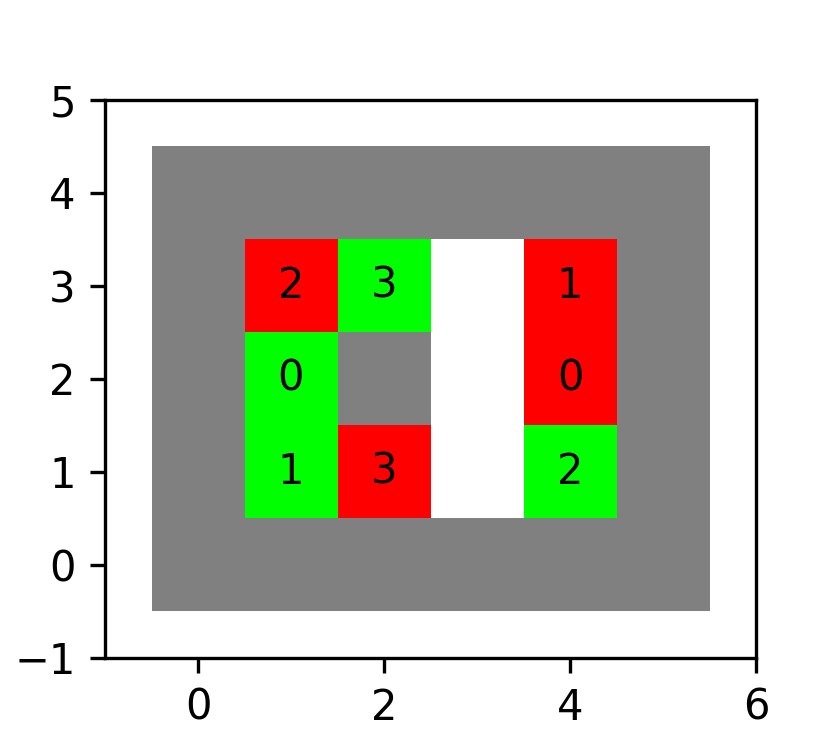
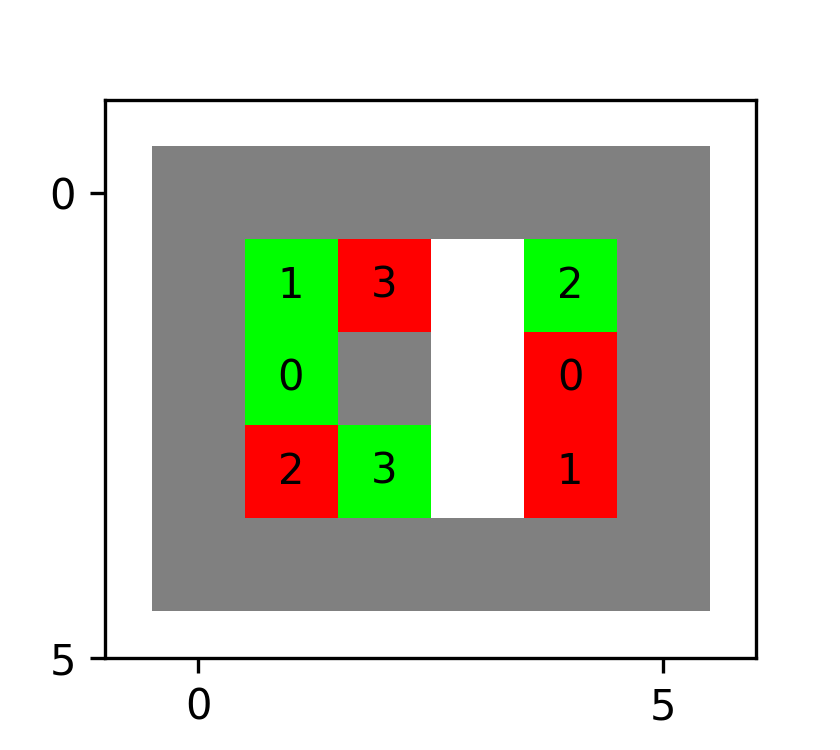
minor fixes + bug_map

diff --git a/maps.py b/maps.py
@@ -1,15 +1,18 @@
 import numpy as np
 import matplotlib.pyplot as plt
+from matplotlib.ticker import MaxNLocator, MultipleLocator
 import re
 
 map_root = "maps/"
 map_list = ["vdberg1a.txt", # 5x5, 3 robots
             "vdberg1b.txt", # 6x5, 3 robots
             "vdberg1c.txt", # 6x5, 4 robots
+            "bug_map.txt",  # 5x5, 4 robots
             "plus.txt",     # 7x7, 2 robots
             "choke.txt",    # 7x7, 2 robots
             "testmap0.txt", # 10x10, 4 robots
             "vdberg3c.txt", # 32x22, 10 robots
+            "quad.txt",     # 32x22, 4 robots
             "gauntlet.txt"] # 32x21, 19 robots
 
 palette = np.array([[255, 255, 255],   # white, empty
@@ -57,7 +60,7 @@ def show_map(mapFile):
         for l in range((map_start),(map_start+y_dim)):
             line = data[l]
             for x in range(x_dim):
-                if (line[x] == "1"):
+                if (line[x] == "x"):
                     val = 1
                 elif (line[x] == "i"):
                     val = 2
@@ -70,9 +73,12 @@ def show_map(mapFile):
     ## plotting
     plt.close("all")
     plt.figure(figsize=(0.3*x_dim+1,0.3*y_dim+1))
-    plt.imshow(palette[map_array], aspect="equal") # https://stackoverflow.com/a/37720602
+    ax = plt.imshow(palette[map_array], aspect="equal").axes # https://stackoverflow.com/a/37720602, https://stackoverflow.com/a/8280500
     plt.xlim([-1,x_dim])
     plt.ylim([-1,y_dim])
+    ax.invert_yaxis() # https://stackoverflow.com/a/8280500
+    ax.xaxis.set_major_locator(MultipleLocator(base=5)) # https://stackoverflow.com/a/34880501
+    ax.yaxis.set_major_locator(MultipleLocator(base=5)) # https://stackoverflow.com/a/34880501
     for i, coord in enumerate(robot_coords):
         plt.annotate(str(i), xy=(coord[0], coord[1]), va="center", ha="center")
         plt.annotate(str(i), xy=(coord[2], coord[3]), va="center", ha="center")
